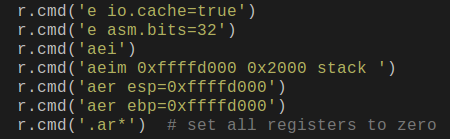
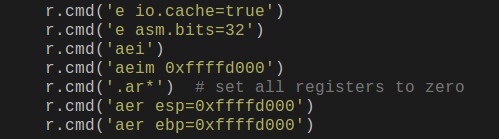
Update a bit the shikatagana slides

diff --git a/shikata_ga_nai/slides.tex b/shikata_ga_nai/slides.tex
@@ -17,10 +17,6 @@
 
 \maketitle
 
-\begin{frame}{Agenda}
-	\tableofcontents
-\end{frame}
-
 \begin{frame}{whoami}
 	\begin{block}{Julien (jvoisin) Voisin}
 	\begin{itemize}
@@ -32,8 +28,13 @@
 \end{frame}
 
 \begin{frame}{Disclaimer}
-	This workshop is based on ideas and scripts from Jaime (@NighetMan) Peñalba.
+	\begin{center}
+		This workshop is based on ideas and scripts from\\
+		Jaime (\alert{@NighetMan}) Peñalba.
+	\end{center}
 \end{frame}
+
+\section{What are we going to do?}
 
 \begin{frame}{Shikata ga nai}
 	\includegraphics[width=\textwidth]{description.png}
@@ -41,26 +42,39 @@
 
 \begin{frame}{Shikata ga nai}
 	\begin{itemize}
+		\item Polymorphic
 		\item 320 LoC
-		\item Everyone patches it
 		\item We want the original shellcode
 	\end{itemize}
 \end{frame}
 
+\section{How do we do it?}
+
 \begin{frame}{Solutions}
-	\begin{itemize}
+	\begin{itemize}[<+->]
 		\item Run it as root on your machine
 		\item Step-step-step-step-step-…
 		\item Trace the execution in a virtual machine
-		\item Use radare2\footnote{From git} ;)
+		\item Use radare2\footnote{From git} with ESIL!
 	\end{itemize}
 \end{frame}
+
+\section{But what is ESIL?}
 
 \begin{frame}{ESIL}
 	\begin{itemize}
 		\item Evaluable String Intermediary Language
+		\item RPN-ish
+		\item \alert{$jz\;0xaabbccdd$} :  $zf,?{,0xaabbccdd,eip,=,}$
+	\end{itemize}
+\end{frame}
+
+\section{So what?}
+
+\begin{frame}{ESIL}
+	\begin{itemize}
 		\item Used for
-			\begin{itemize}
+			\begin{itemize}[<+->]
 				\item Emulation
 				\item Decompilation\footnote{See radeco}
 				\item Analysis
@@ -68,6 +82,8 @@
 			\end{itemize}
 		\end{itemize}
 \end{frame}
+
+\section{How does emulation help us to dump the shellcode?}
 
 \begin{frame}{Where to stop?}
 	We can emulate the shellcode, but where do we stop?
@@ -81,13 +97,25 @@
 \end{frame}
 
 \begin{frame}{Reading the source code}
-	It seems that the last instruction will always be \alert{loop}, and its counter in \alert{ecx}.
+	It seems that the last instruction will always be \alert{loop}.
 	\newline
-	So we can emulate the shellcode, and dump the result at the last \alert{loop} instruction.
+	\newline
+	So we can emulate the shellcode, and dump the result from the last \alert{loop} instruction
+	till then end.
 \end{frame}
+
+\section{How do we use radare2/ESIL anyway?}
 
 \begin{frame}{r2pipe}
 	\includegraphics[width=\textwidth]{r2pipe.png}
+\end{frame}
+
+\begin{frame}{Languages}
+	\begin{itemize}
+		\item npm install r2pipe
+		\item pip install r2pipe
+		\item gem install r2pipe
+	\end{itemize}
 \end{frame}
 
 \begin{frame}{Initializing the ESIL VM}
@@ -107,8 +135,44 @@
 	}
 \end{frame}
 
-\begin{frame}{Your turn!}
-	\includegraphics[width=\textwidth]{initmem.png}
+\section{Can we emulate them the \emph{ghetto way}?}
+
+\begin{frame}{Are those detected as FPU by r2?}
+	\begin{itemize}
+		\item You've got the \alert{hello\_world.py} code
+		\item Check if every opcode in the \alert{test\_fpu.py} one has the \alert{fpu} family
+		\item Feel free to do it in your favourite language!
+	\end{itemize}
+\end{frame}
+
+\begin{frame}{My solution}
+	\includegraphics[width=\textwidth]{fpus.png}
+\end{frame}
+
+\section{Ready to unpack shikata ga nai?}
+
+\begin{frame}{Sum up}
+	\begin{enumerate}
+		\item Initialize the ESIL vm
+		\item If the instruction is \alert{invalid}
+			\begin{enumerate}
+				\item We're at the end!
+				\item Dump from the last encountered \alert{loop} instruction to the end
+			\end{enumerate}
+		\item Else, if the instruction is an fpu one
+			\begin{enumerate}
+				\item If it's \alert{fnstenv}, write the previously stored \alert{eip} at \alert{esp}
+				\item Else, store \alert{eip}
+			\end{enumerate}
+		\item Else, if the instruction is \alert{loop}, store its location
+		\item Step and goto \emph{2}.
+	\end{enumerate}
+\end{frame}
+
+\section{Your turn!}
+
+\begin{frame}{My solution}
+	\includegraphics[width=\textwidth]{solution.png}
 \end{frame}
 
 \section*{Conclusion}

diff --git a/shikata_ga_nai/shikataganai.py b/shikata_ga_nai/shikataganai.py
@@ -6,14 +6,11 @@ def initESIL():
     r.cmd('e asm.bits=32')
     r.cmd('aei')
     r.cmd('aeim 0xffffd000')
+    r.cmd('.ar*')  # set all registers to zero
     r.cmd('aer esp=0xffffd000')
     r.cmd('aer ebp=0xffffd000')
-    r.cmd('.ar*')  # set all registers to zerosetup_ESIL(r)
 
 def dump (start):
-    r.cmd('e asm.comments=false');
-    r.cmd('e asm.lines=false');
-    r.cmd('e asm.flags=false');
 
     end = r.cmdj('oj')[0]['size']  # size of the opened object
 
@@ -43,7 +40,7 @@ def decode(r):
         #
         # So we take note of the offset of the latest FPU instruction,
         # on put it in `esp` when `fnstenv` is encounted.
-        if r.cmdj('abj %s' % current_op['bytes'])[0]['family'] == 'fpu':
+        if current_op['family'] == 'fpu':
             if current_op['opcode'].startswith('fnstenv'):
                 r.cmd('wv %d @ esp' % lastfpu)
             else:
@@ -63,5 +60,8 @@ if len(sys.argv) != 2:
     sys.exit(0)
 
 r = r2pipe.open(sys.argv[1])
+r.cmd('e asm.comments=false');
+r.cmd('e asm.lines=false');
+r.cmd('e asm.flags=false');
 initESIL()
 decode(r)
